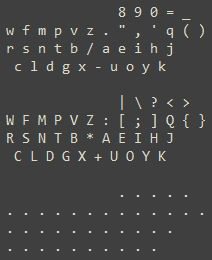
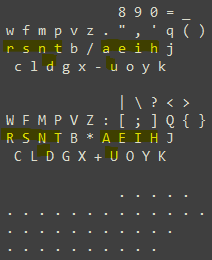
added BS combo

diff --git a/pqLayoutsHook/Keyboard.cpp b/pqLayoutsHook/Keyboard.cpp
@@ -452,7 +452,7 @@ void Keyboard::SendString(int nbrKeysIn, const char* textString)
 
 bool Keyboard::DoCombo(const std::vector<KbdHookEvent>& events, const VeeKeeVector& vks)
 {
-    // combos for HD neuC
+    // hard coded combos for HD neuC
     // VeeKeeVector must be sorted!
     // These are sent with our SendString, which will capitalize the 1st char if alpha & Shift is down 
     static std::map<VeeKeeVector, const char*> combos = {
@@ -518,6 +518,7 @@ bool Keyboard::DoCombo(const std::vector<KbdHookEvent>& events, const VeeKeeVect
         { {'H','Y'}, {CtrlKeyValue('W')} }, // ctrl-w (close, unfortunately not std, ditto ctrl-f4)
         { {'A','G'}, {CtrlKeyValue('F')} }, // ctrl-f (find)
         { {'V','Z'}, {CtrlKeyValue('A')} }, // ctrl-a (select all)
+        { {'K','L'}, {KeyValue(VK_BACK,0)} }, // BACK SPACE
         { {'R','T'}, {KeyValue(VK_TAB, 0, false, false, true)} }, // alt-tab (next window)
     };
 
@@ -563,7 +564,7 @@ bool Keyboard::OnKeyEvent(const KbdHookEvent& event)
 
     static std::vector<KbdHookEvent > eventsDown;
     static VeeKeeVector vksDown;
-    static std::string comboKeys = std::string("ABCDEFGHILMOPQRSTUVWXYZ") 
+    static std::string comboKeys = std::string("ABCDEFGHIKLMOPQRSTUVWXYZ") 
         + (char)VK_OEM_1        // ';:'
         + (char)VK_OEM_COMMA
         + (char)VK_OEM_PERIOD
